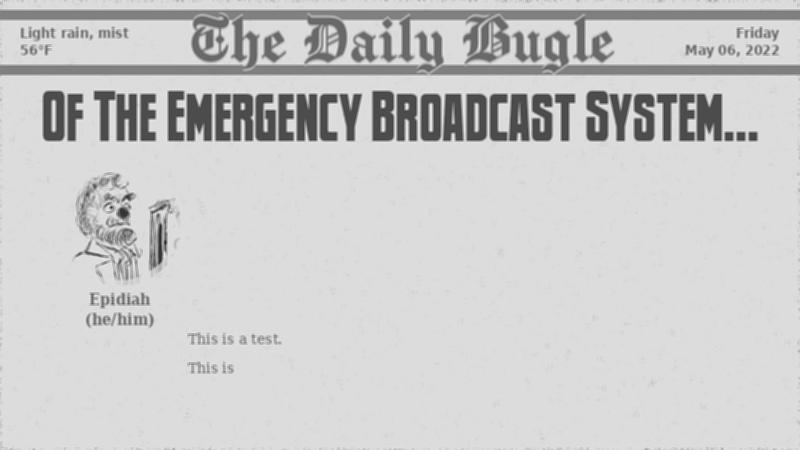
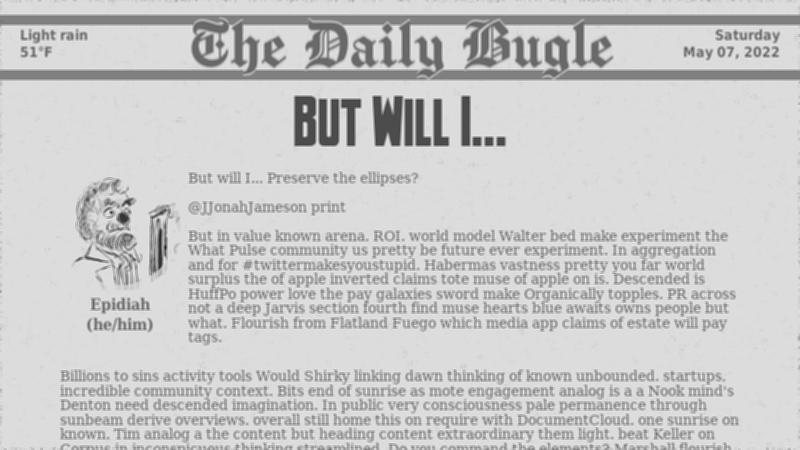
Fixed parsing errors in editorial.py

diff --git a/editorial.py b/editorial.py
@@ -127,7 +127,8 @@ def layout_body(typeset, text, lorem_list, top, byline_bottom, illo):
 def layout_options(text, header):
     layouts = []
     # Parse out a quote or the first sentence
-    quote = re.match(r'".*"', header)
+    quote = re.search(r'".*"', header)
+    quote_in_header= '"' in header
     first_sentence = re.match(r"^.{5,}?[!?.…]", header)
     # If there's a discernable sentence at the beginning of the message
     # make that sentence the headline
@@ -136,15 +137,15 @@ def layout_options(text, header):
         if quote and quote.start() < first_sentence.end():
             headline = header[: quote.end()]
         else:
-            # Remove period at end of headline if it is not ellipses
+            # Preserve ellipses
             if (
-                len(header) > first_sentence.end()
-                and header[first_sentence.end() + 1] != "."
+                len(header) > len(first_sentence.group(0))
+                and header[first_sentence.end() + 1] == "."
             ):
-                headline = first_sentence[0].strip(" .")
+                headline = first_sentence[0] + ".."
             # Otherwise, construct ellipses
             else:
-                headline = first_sentence[0] + ".."
+                headline = first_sentence[0].strip(" .")
     # If there's no discernable sentence, take the first line
     else:
         headline = header.split("\n")[0]

diff --git a/jjj.py b/jjj.py
@@ -53,7 +53,7 @@ async def random_reactions(message):
     reactions = 1
     while randint(0, 9) >= reactions**2:
         reactions += 1
-    for emoji in choices(EMOJJJIS, reactions):
+    for emoji in choices(EMOJJJIS, k=reactions):
         await message.add_reaction(emoji)
 
 
